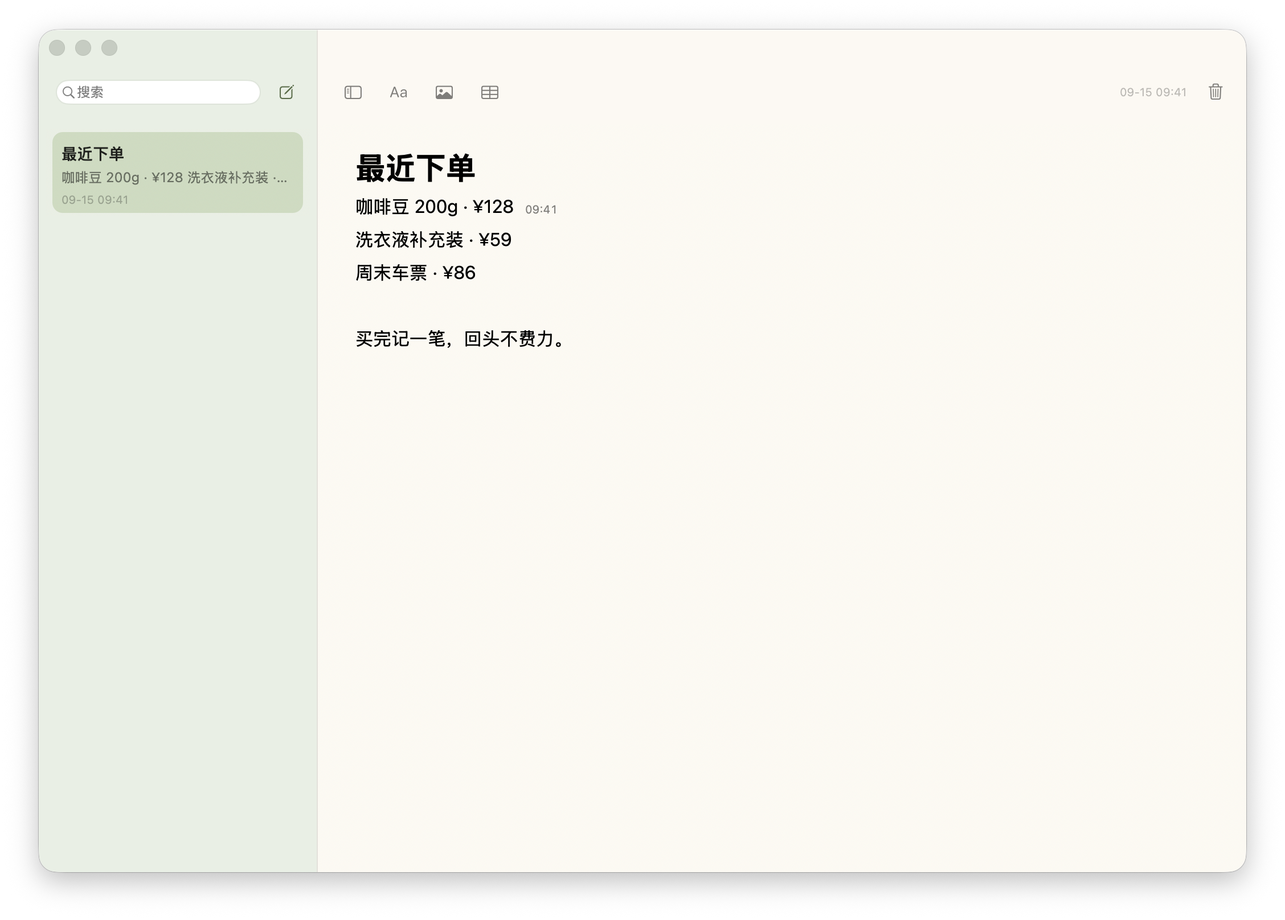
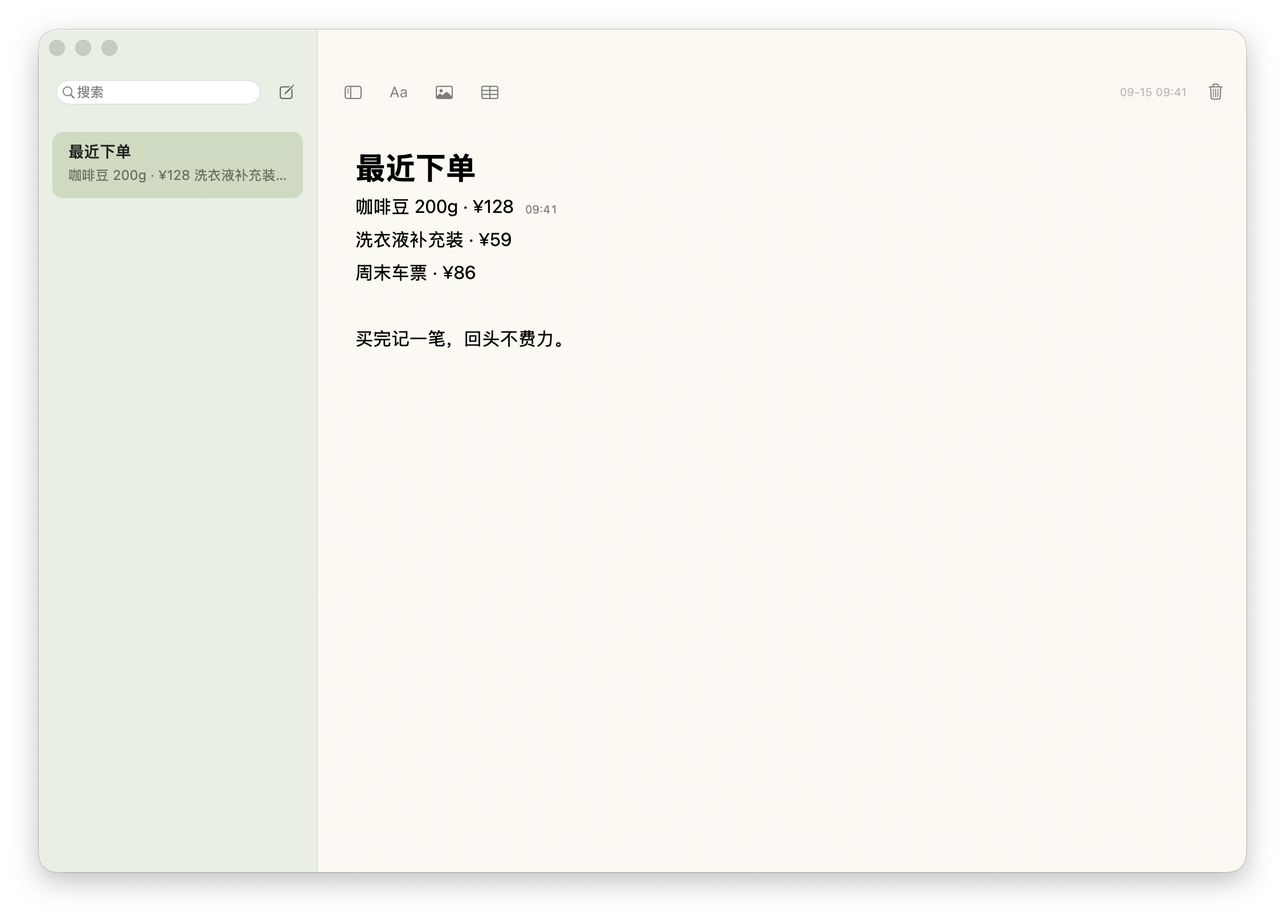
Simplify memo sidebar to title and preview

Changed region(s): [[0.031, 0.1547, 0.2482, 0.2475]]

diff --git a/docs/en.html b/docs/en.html
@@ -1,12 +1,12 @@
 <!doctype html>
-<html lang="en"><head><meta charset="utf-8"><meta name="viewport" content="width=device-width,initial-scale=1"><title>SwiftNote — A thought, a note.</title><meta name="description" content="A small native macOS memo app. Write directly, format with Markdown shortcuts, and see edit times only when needed."><meta name="theme-color" content="#f6f4ed"><meta property="og:title" content="SwiftNote — A thought, a note."><meta property="og:description" content="A small native macOS memo app. Write directly, format with Markdown shortcuts, and see edit times only when needed."><meta property="og:image" content="https://flaricy.github.io/SwiftNote/assets/orders-en.png?v=1.0.2"><meta property="og:type" content="website"><link rel="icon" href="assets/app-icon.png"><link rel="stylesheet" href="style.css?v=paper-only-2"><script src="app.js?v=paper-only-2" defer></script><link rel="canonical" href="https://flaricy.github.io/SwiftNote/en.html"><link rel="alternate" hreflang="zh-CN" href="https://flaricy.github.io/SwiftNote/"><link rel="alternate" hreflang="en" href="https://flaricy.github.io/SwiftNote/en.html"><meta property="og:url" content="https://flaricy.github.io/SwiftNote/en.html"><meta property="og:locale" content="en_US"><meta name="twitter:card" content="summary_large_image"></head>
+<html lang="en"><head><meta charset="utf-8"><meta name="viewport" content="width=device-width,initial-scale=1"><title>SwiftNote — A thought, a note.</title><meta name="description" content="A small native macOS memo app. Write directly, format with Markdown shortcuts, and see edit times only when needed."><meta name="theme-color" content="#f6f4ed"><meta property="og:title" content="SwiftNote — A thought, a note."><meta property="og:description" content="A small native macOS memo app. Write directly, format with Markdown shortcuts, and see edit times only when needed."><meta property="og:image" content="https://flaricy.github.io/SwiftNote/assets/orders-en.png?v=1.0.3"><meta property="og:type" content="website"><link rel="icon" href="assets/app-icon.png"><link rel="stylesheet" href="style.css?v=quiet-list-3"><script src="app.js?v=quiet-list-3" defer></script><link rel="canonical" href="https://flaricy.github.io/SwiftNote/en.html"><link rel="alternate" hreflang="zh-CN" href="https://flaricy.github.io/SwiftNote/"><link rel="alternate" hreflang="en" href="https://flaricy.github.io/SwiftNote/en.html"><meta property="og:url" content="https://flaricy.github.io/SwiftNote/en.html"><meta property="og:locale" content="en_US"><meta name="twitter:card" content="summary_large_image"></head>
 <body><a class="skip" href="#main">Skip to content</a>
 <header class="wrap header"><a class="brand" href="en.html"><img src="assets/app-icon.png" width="38" height="38" alt=""><span>SwiftNote <b>随记</b></span></a><nav aria-label="Main navigation"><a href="#experience">Experience</a><a href="https://github.com/flaricy/SwiftNote">GitHub ↗</a><a href="index.html" lang="zh-CN" hreflang="zh-CN" data-language-link>中文</a></nav></header>
-<main id="main"><section class="wrap hero"><div class="hero-copy"><p class="eyebrow"><span></span>Made for macOS · MIT open source</p><h1>A thought,<br><em>a note.</em></h1><p class="intro">A passing thought, or a purchase you just made.<br>Write a line. Find its time when you need it.</p><a class="button" href="https://github.com/flaricy/SwiftNote/releases/download/v1.0.2/SwiftNote-1.0.2-macOS-arm64.zip"><span aria-hidden="true">↓</span> Download for macOS <span aria-hidden="true">↗</span></a><p class="meta">v1.0.2 · Apple Silicon · macOS 14+</p><a class="quiet" href="#install">First-time installation ↗</a></div><div class="hero-art"><span class="margin-note">A LITTLE SPACE<br>FOR YOUR THOUGHTS.</span><div class="paper-edge"></div><img class="hero-shot" src="assets/orders-en.png?v=1.0.2" width="2256" height="1616" alt="SwiftNote editor showing a purchase with its inline edit timestamp"><div class="art-caption"><span>01 / SWIFTNOTE</span><span>Actual app · Fictional notes</span></div></div></section>
+<main id="main"><section class="wrap hero"><div class="hero-copy"><p class="eyebrow"><span></span>Made for macOS · MIT open source</p><h1>A thought,<br><em>a note.</em></h1><p class="intro">A passing thought, or a purchase you just made.<br>Write a line. Find its time when you need it.</p><a class="button" href="https://github.com/flaricy/SwiftNote/releases/download/v1.0.3/SwiftNote-1.0.3-macOS-arm64.zip"><span aria-hidden="true">↓</span> Download for macOS <span aria-hidden="true">↗</span></a><p class="meta">v1.0.3 · Apple Silicon · macOS 14+</p><a class="quiet" href="#install">First-time installation ↗</a></div><div class="hero-art"><span class="margin-note">A LITTLE SPACE<br>FOR YOUR THOUGHTS.</span><div class="paper-edge"></div><img class="hero-shot" src="assets/orders-en.png?v=1.0.3" width="2256" height="1616" alt="SwiftNote editor showing a purchase with its inline edit timestamp"><div class="art-caption"><span>01 / SWIFTNOTE</span><span>Actual app · Fictional notes</span></div></div></section>
 <section class="wrap order-section" id="order-time" aria-labelledby="order-heading"><div class="order-copy"><p class="eyebrow">A NOTE. A PURCHASE. A MOMENT.</p><h2 id="order-heading">Remember when you wrote it down.</h2><p>Jot down a purchase as you place the order. Later, click the line to check its latest edit time—one less detail to remember.</p><p class="order-how">Click a line → see its time</p><p class="order-caveat">Times reflect the latest edit, not a permanent order record. Editing a line updates its time.</p></div><div class="order-demo"><div class="order-demo-top"><span>Fictional purchases</span></div><div class="order-lines"><div class="order-row is-selected" data-order-row="0"><button type="button" class="order-select" aria-pressed="true"><span class="order-label">Coffee beans, 200g · $18</span></button><button type="button" class="order-time" aria-label="Last edited: 2026-09-14 09:41:26" aria-expanded="false" aria-describedby="order-tip-0" >09:41</button><span class="order-tooltip" id="order-tip-0" role="tooltip">Last edited<strong>2026-09-14 09:41:26</strong></span></div><div class="order-row" data-order-row="1"><button type="button" class="order-select" aria-pressed="false"><span class="order-label">Keyboard · silent switches / office delivery · $59</span></button><button type="button" class="order-time is-clock" aria-label="Last edited: 2026-09-14 12:18:03" aria-expanded="false" aria-describedby="order-tip-1" tabindex="-1"><svg viewBox="0 0 20 20" aria-hidden="true"><circle cx="10" cy="10" r="7"/><path d="M10 5.5V10l3 1.8"/></svg></button><span class="order-tooltip" id="order-tip-1" role="tooltip">Last edited<strong>2026-09-14 12:18:03</strong></span></div><div class="order-row" data-order-row="2"><button type="button" class="order-select" aria-pressed="false"><span class="order-label">Train ticket · $24</span></button><button type="button" class="order-time" aria-label="Last edited: 2026-09-14 18:06:12" aria-expanded="false" aria-describedby="order-tip-2" tabindex="-1">18:06</button><span class="order-tooltip" id="order-tip-2" role="tooltip">Last edited<strong>2026-09-14 18:06:12</strong></span></div></div><p class="order-hint">Select a line. Hover or tap its time to see the full date.</p><p class="order-caption">Interactive illustration, not the running app.</p></div></section>
 <section class="wrap statement" id="experience"><p class="eyebrow">LESS BETWEEN YOU AND YOUR WORDS</p><h2>Just enough room for a thought.</h2><p>No workspace to choose. No mandatory title.<br>Return to your last note, or start one from the menu bar.</p></section>
-<section class="wrap showcase"><div class="scene-tabs" role="tablist" aria-label="App views"><button type="button" class="scene-tab" role="tab" id="tab-0" aria-controls="scene" aria-selected="true" data-scene="0">Purchase time</button><button type="button" class="scene-tab" role="tab" id="tab-1" aria-controls="scene" aria-selected="false" data-scene="1">Just write</button><button type="button" class="scene-tab" role="tab" id="tab-2" aria-controls="scene" aria-selected="false" data-scene="2">Format in place</button></div><div id="scene" role="tabpanel" aria-labelledby="tab-0"><img data-scene-image="0" src="assets/orders-en.png?v=1.0.2" width="2256" height="1616" alt="A purchase note with the latest edit time beside the coffee order"><img data-scene-image="1" src="assets/editor-en.png?v=1.0.2" width="2256" height="1616" alt="A weekend note with headings and a short checklist" hidden><img data-scene-image="2" src="assets/selection-en.png?v=1.0.2" width="2256" height="1616" alt="Selected text with the compact formatting toolbar alongside it" hidden></div><p class="caption">Actual app · Fictional notes</p></section>
+<section class="wrap showcase"><div class="scene-tabs" role="tablist" aria-label="App views"><button type="button" class="scene-tab" role="tab" id="tab-0" aria-controls="scene" aria-selected="true" data-scene="0">Purchase time</button><button type="button" class="scene-tab" role="tab" id="tab-1" aria-controls="scene" aria-selected="false" data-scene="1">Just write</button><button type="button" class="scene-tab" role="tab" id="tab-2" aria-controls="scene" aria-selected="false" data-scene="2">Format in place</button></div><div id="scene" role="tabpanel" aria-labelledby="tab-0"><img data-scene-image="0" src="assets/orders-en.png?v=1.0.3" width="2256" height="1616" alt="A purchase note with the latest edit time beside the coffee order"><img data-scene-image="1" src="assets/editor-en.png?v=1.0.3" width="2256" height="1616" alt="A weekend note with headings and a short checklist" hidden><img data-scene-image="2" src="assets/selection-en.png?v=1.0.3" width="2256" height="1616" alt="Selected text with the compact formatting toolbar alongside it" hidden></div><p class="caption">Actual app · Fictional notes</p></section>
 <section class="wrap features"><article><span class="index">01 — WRITE</span><h3>Stay with your thought.</h3><p>Use familiar Markdown shortcuts and four heading levels. Type / to insert lists, checklists, images, and tables.</p><div class="sample" aria-hidden="true"><span class="muted">## </span>A little weekend plan<span class="sample-arrow">↵</span></div></article><article><span class="index">02 — SHAPE</span><h3>Tools beside your words.</h3><p>Select text and format nearby. Drop in an image and scale it proportionally. Edit tables directly and check things off.</p><div class="format-sample" aria-hidden="true"><b>B</b><i>I</i><u>U</u><s>S</s><span> Aa</span></div></article><article><span class="index">03 — REMEMBER</span><h3>Time, when you need it.</h3><p>Click a line to see its latest edit time. A small clock takes over when the line is full. Hover for the complete date.</p><div class="time-sample" aria-hidden="true">Coffee beans · $18<span>09:41</span></div></article></section>
 <section class="wrap quick"><div><p class="eyebrow">ALWAYS WITHIN REACH</p><h2>A new thought, within reach.</h2><p>Click the menu bar button, or press <kbd>⌃</kbd><kbd>⌥</kbd><kbd>N</kbd> from another app to create a note.</p><small>Available while SwiftNote is running</small></div><div class="quick-icon" aria-hidden="true"><img src="assets/app-icon.png" width="150" height="150" alt=""></div></section>
-<section class="wrap download" id="install"><p class="eyebrow">Free · MIT</p><h2>A place for passing thoughts.</h2><p>No account. No subscription. Just a small native memo app.</p><a class="button" href="https://github.com/flaricy/SwiftNote/releases/download/v1.0.2/SwiftNote-1.0.2-macOS-arm64.zip">↓ Download for macOS</a><p class="meta">v1.0.2 · Apple Silicon · macOS 14+</p><p class="install-note">The app’s menus are currently in Chinese; English notes are supported. This release is not Apple-notarized. If macOS blocks the first launch, follow the installation guide. <a href="https://github.com/flaricy/SwiftNote/blob/main/docs/GUIDE.en.md">Installation & guide ↗</a></p></section></main>
+<section class="wrap download" id="install"><p class="eyebrow">Free · MIT</p><h2>A place for passing thoughts.</h2><p>No account. No subscription. Just a small native memo app.</p><a class="button" href="https://github.com/flaricy/SwiftNote/releases/download/v1.0.3/SwiftNote-1.0.3-macOS-arm64.zip">↓ Download for macOS</a><p class="meta">v1.0.3 · Apple Silicon · macOS 14+</p><p class="install-note">The app’s menus are currently in Chinese; English notes are supported. This release is not Apple-notarized. If macOS blocks the first launch, follow the installation guide. <a href="https://github.com/flaricy/SwiftNote/blob/main/docs/GUIDE.en.md">Installation & guide ↗</a></p></section></main>
 <footer class="wrap footer"><a class="brand" href="en.html"><img src="assets/app-icon.png" width="28" height="28" alt="">SwiftNote · 随记</a><span>Made by flaricy · 2026</span><div><a href="https://github.com/flaricy/SwiftNote">View source</a><a href="https://github.com/flaricy/Framing">Framing ↗</a></div></footer></body></html>

diff --git a/docs/index.html b/docs/index.html
@@ -1,12 +1,12 @@
 <!doctype html>
-<html lang="zh-CN"><head><meta charset="utf-8"><meta name="viewport" content="width=device-width,initial-scale=1"><title>SwiftNote · 随记 — 念头一闪，随手记下。</title><meta name="description" content="原生 macOS 备忘录。打开直接写，Markdown 随手排版，修改时间按需出现。"><meta name="theme-color" content="#f6f4ed"><meta property="og:title" content="SwiftNote · 随记 — 念头一闪，随手记下。"><meta property="og:description" content="原生 macOS 备忘录。打开直接写，Markdown 随手排版，修改时间按需出现。"><meta property="og:image" content="https://flaricy.github.io/SwiftNote/assets/orders.png?v=1.0.2"><meta property="og:type" content="website"><link rel="icon" href="assets/app-icon.png"><link rel="stylesheet" href="style.css?v=paper-only-2"><script src="app.js?v=paper-only-2" defer></script><link rel="canonical" href="https://flaricy.github.io/SwiftNote/"><link rel="alternate" hreflang="zh-CN" href="https://flaricy.github.io/SwiftNote/"><link rel="alternate" hreflang="en" href="https://flaricy.github.io/SwiftNote/en.html"><meta property="og:url" content="https://flaricy.github.io/SwiftNote/"><meta property="og:locale" content="zh_CN"><meta name="twitter:card" content="summary_large_image"></head>
+<html lang="zh-CN"><head><meta charset="utf-8"><meta name="viewport" content="width=device-width,initial-scale=1"><title>SwiftNote · 随记 — 念头一闪，随手记下。</title><meta name="description" content="原生 macOS 备忘录。打开直接写，Markdown 随手排版，修改时间按需出现。"><meta name="theme-color" content="#f6f4ed"><meta property="og:title" content="SwiftNote · 随记 — 念头一闪，随手记下。"><meta property="og:description" content="原生 macOS 备忘录。打开直接写，Markdown 随手排版，修改时间按需出现。"><meta property="og:image" content="https://flaricy.github.io/SwiftNote/assets/orders.png?v=1.0.3"><meta property="og:type" content="website"><link rel="icon" href="assets/app-icon.png"><link rel="stylesheet" href="style.css?v=quiet-list-3"><script src="app.js?v=quiet-list-3" defer></script><link rel="canonical" href="https://flaricy.github.io/SwiftNote/"><link rel="alternate" hreflang="zh-CN" href="https://flaricy.github.io/SwiftNote/"><link rel="alternate" hreflang="en" href="https://flaricy.github.io/SwiftNote/en.html"><meta property="og:url" content="https://flaricy.github.io/SwiftNote/"><meta property="og:locale" content="zh_CN"><meta name="twitter:card" content="summary_large_image"></head>
 <body><a class="skip" href="#main">跳到正文</a>
 <header class="wrap header"><a class="brand" href="./"><img src="assets/app-icon.png" width="38" height="38" alt=""><span>SwiftNote <b>随记</b></span></a><nav aria-label="主导航"><a href="#experience">体验</a><a href="https://github.com/flaricy/SwiftNote">GitHub ↗</a><a href="en.html" lang="en" hreflang="en" data-language-link>EN</a></nav></header>
-<main id="main"><section class="wrap hero"><div class="hero-copy"><p class="eyebrow"><span></span>为 macOS 而写 · MIT 开源</p><h1>念头一闪，<br><em>随手记下。</em></h1><p class="intro">一闪而过的念头，刚刚下单的东西。<br>随手记一行，需要时也能回看时间。</p><a class="button" href="https://github.com/flaricy/SwiftNote/releases/download/v1.0.2/SwiftNote-1.0.2-macOS-arm64.zip"><span aria-hidden="true">↓</span> 下载 macOS 版 <span aria-hidden="true">↗</span></a><p class="meta">v1.0.2 · Apple Silicon · macOS 14+</p><a class="quiet" href="#install">首次安装须知 ↗</a></div><div class="hero-art"><span class="margin-note">A LITTLE SPACE<br>FOR YOUR THOUGHTS.</span><div class="paper-edge"></div><img class="hero-shot" src="assets/orders.png?v=1.0.2" width="2256" height="1616" alt="随记实际界面：咖啡豆账单行末尾显示修改时间"><div class="art-caption"><span>01 / SWIFTNOTE</span><span>实际应用界面 · 示例内容</span></div></div></section>
+<main id="main"><section class="wrap hero"><div class="hero-copy"><p class="eyebrow"><span></span>为 macOS 而写 · MIT 开源</p><h1>念头一闪，<br><em>随手记下。</em></h1><p class="intro">一闪而过的念头，刚刚下单的东西。<br>随手记一行，需要时也能回看时间。</p><a class="button" href="https://github.com/flaricy/SwiftNote/releases/download/v1.0.3/SwiftNote-1.0.3-macOS-arm64.zip"><span aria-hidden="true">↓</span> 下载 macOS 版 <span aria-hidden="true">↗</span></a><p class="meta">v1.0.3 · Apple Silicon · macOS 14+</p><a class="quiet" href="#install">首次安装须知 ↗</a></div><div class="hero-art"><span class="margin-note">A LITTLE SPACE<br>FOR YOUR THOUGHTS.</span><div class="paper-edge"></div><img class="hero-shot" src="assets/orders.png?v=1.0.3" width="2256" height="1616" alt="随记实际界面：咖啡豆账单行末尾显示修改时间"><div class="art-caption"><span>01 / SWIFTNOTE</span><span>实际应用界面 · 示例内容</span></div></div></section>
 <section class="wrap order-section" id="order-time" aria-labelledby="order-heading"><div class="order-copy"><p class="eyebrow">A NOTE. A PURCHASE. A MOMENT.</p><h2 id="order-heading">记一笔账，也留个时间线索。</h2><p>买了什么，花了多少，随手记下一行。点一下这行，就能看到最近修改的时间。下单当时记一笔，回看时就多一个时间线索。</p><p class="order-how">点选这一行 → 看时间</p><p class="order-caveat">显示的是最近修改时间。再次编辑会更新时间，不会永久保留原始下单时间。</p></div><div class="order-demo"><div class="order-demo-top"><span>示例账单</span></div><div class="order-lines"><div class="order-row is-selected" data-order-row="0"><button type="button" class="order-select" aria-pressed="true"><span class="order-label">咖啡豆 200g · ¥128</span></button><button type="button" class="order-time" aria-label="最近修改: 2026-09-14 09:41:26" aria-expanded="false" aria-describedby="order-tip-0" >09:41</button><span class="order-tooltip" id="order-tip-0" role="tooltip">最近修改<strong>2026-09-14 09:41:26</strong></span></div><div class="order-row" data-order-row="1"><button type="button" class="order-select" aria-pressed="false"><span class="order-label">机械键盘 · 静音轴 / 配送到公司 · ¥399</span></button><button type="button" class="order-time is-clock" aria-label="最近修改: 2026-09-14 12:18:03" aria-expanded="false" aria-describedby="order-tip-1" tabindex="-1"><svg viewBox="0 0 20 20" aria-hidden="true"><circle cx="10" cy="10" r="7"/><path d="M10 5.5V10l3 1.8"/></svg></button><span class="order-tooltip" id="order-tip-1" role="tooltip">最近修改<strong>2026-09-14 12:18:03</strong></span></div><div class="order-row" data-order-row="2"><button type="button" class="order-select" aria-pressed="false"><span class="order-label">周末车票 · ¥86</span></button><button type="button" class="order-time" aria-label="最近修改: 2026-09-14 18:06:12" aria-expanded="false" aria-describedby="order-tip-2" tabindex="-1">18:06</button><span class="order-tooltip" id="order-tip-2" role="tooltip">最近修改<strong>2026-09-14 18:06:12</strong></span></div></div><p class="order-hint">点选一行，再悬停或点一下时间，查看完整日期。</p><p class="order-caption">交互示意，并非运行中的应用。</p></div></section>
 <section class="wrap statement" id="experience"><p class="eyebrow">LESS BETWEEN YOU AND YOUR WORDS</p><h2>一条备忘录，该有的刚刚好。</h2><p>不必先选工作区，也不用给每个念头起标题。<br>回到上次写的地方，或者从菜单栏另起一条。</p></section>
-<section class="wrap showcase"><div class="scene-tabs" role="tablist" aria-label="应用界面"><button type="button" class="scene-tab" role="tab" id="tab-0" aria-controls="scene" aria-selected="true" data-scene="0">账单与时间</button><button type="button" class="scene-tab" role="tab" id="tab-1" aria-controls="scene" aria-selected="false" data-scene="1">自在书写</button><button type="button" class="scene-tab" role="tab" id="tab-2" aria-controls="scene" aria-selected="false" data-scene="2">就近排版</button></div><div id="scene" role="tabpanel" aria-labelledby="tab-0"><img data-scene-image="0" src="assets/orders.png?v=1.0.2" width="2256" height="1616" alt="账单与时间"><img data-scene-image="1" src="assets/editor.png?v=1.0.2" width="2256" height="1616" alt="自在书写" hidden><img data-scene-image="2" src="assets/selection.png?v=1.0.2" width="2256" height="1616" alt="就近排版" hidden></div><p class="caption">实际应用界面 · 示例内容</p></section>
+<section class="wrap showcase"><div class="scene-tabs" role="tablist" aria-label="应用界面"><button type="button" class="scene-tab" role="tab" id="tab-0" aria-controls="scene" aria-selected="true" data-scene="0">账单与时间</button><button type="button" class="scene-tab" role="tab" id="tab-1" aria-controls="scene" aria-selected="false" data-scene="1">自在书写</button><button type="button" class="scene-tab" role="tab" id="tab-2" aria-controls="scene" aria-selected="false" data-scene="2">就近排版</button></div><div id="scene" role="tabpanel" aria-labelledby="tab-0"><img data-scene-image="0" src="assets/orders.png?v=1.0.3" width="2256" height="1616" alt="账单与时间"><img data-scene-image="1" src="assets/editor.png?v=1.0.3" width="2256" height="1616" alt="自在书写" hidden><img data-scene-image="2" src="assets/selection.png?v=1.0.3" width="2256" height="1616" alt="就近排版" hidden></div><p class="caption">实际应用界面 · 示例内容</p></section>
 <section class="wrap features"><article><span class="index">01 — WRITE</span><h3>写下去，不打断。</h3><p>用熟悉的 Markdown 快捷输入，四级标题随手切换。一个 /，就能插入列表、待办、图片和表格。</p><div class="sample" aria-hidden="true"><span class="muted">## </span>周末的小计划<span class="sample-arrow">↵</span></div></article><article><span class="index">02 — SHAPE</span><h3>工具靠近文字。</h3><p>选中文字，就近完成排版。图片拖进来，按比例调整大小；表格直接填，待办点一下完成。</p><div class="format-sample" aria-hidden="true"><b>B</b><i>I</i><u>U</u><s>S</s><span> Aa</span></div></article><article><span class="index">03 — REMEMBER</span><h3>时间，需要时再看。</h3><p>点击一行，修改时间轻轻出现在文字后面。行尾满了，就用小钟代替，悬停即刻查看。</p><div class="time-sample" aria-hidden="true">咖啡豆 · ¥128<span>09:41</span></div></article></section>
 <section class="wrap quick"><div><p class="eyebrow">ALWAYS WITHIN REACH</p><h2>手边，一个新念头。</h2><p>菜单栏点一下，或在其他应用中按 <kbd>⌃</kbd><kbd>⌥</kbd><kbd>N</kbd>，立即新建。</p><small>随记运行时可用</small></div><div class="quick-icon" aria-hidden="true"><img src="assets/app-icon.png" width="150" height="150" alt=""></div></section>
-<section class="wrap download" id="install"><p class="eyebrow">免费 · MIT</p><h2>给念头留个位置。</h2><p>没有账户，没有订阅。一个小小的原生备忘录。</p><a class="button" href="https://github.com/flaricy/SwiftNote/releases/download/v1.0.2/SwiftNote-1.0.2-macOS-arm64.zip">↓ 下载 macOS 版</a><p class="meta">v1.0.2 · Apple Silicon · macOS 14+</p><p class="install-note">当前版本尚未经过 Apple 公证。首次打开若被 macOS 阻止，请按照安装指南操作。 <a href="https://github.com/flaricy/SwiftNote/blob/main/docs/GUIDE.md">安装与使用 ↗</a></p></section></main>
+<section class="wrap download" id="install"><p class="eyebrow">免费 · MIT</p><h2>给念头留个位置。</h2><p>没有账户，没有订阅。一个小小的原生备忘录。</p><a class="button" href="https://github.com/flaricy/SwiftNote/releases/download/v1.0.3/SwiftNote-1.0.3-macOS-arm64.zip">↓ 下载 macOS 版</a><p class="meta">v1.0.3 · Apple Silicon · macOS 14+</p><p class="install-note">当前版本尚未经过 Apple 公证。首次打开若被 macOS 阻止，请按照安装指南操作。 <a href="https://github.com/flaricy/SwiftNote/blob/main/docs/GUIDE.md">安装与使用 ↗</a></p></section></main>
 <footer class="wrap footer"><a class="brand" href="./"><img src="assets/app-icon.png" width="28" height="28" alt="">SwiftNote · 随记</a><span>由 flaricy 制作 · 2026</span><div><a href="https://github.com/flaricy/SwiftNote">查看源码</a><a href="https://github.com/flaricy/Framing">Framing ↗</a></div></footer></body></html>

diff --git a/Source/App.swift b/Source/App.swift
@@ -18,16 +18,14 @@ final class MemoRow: NSTableRowView {
 final class MemoCell: NSTableCellView {
     let title = NSTextField(labelWithString: "")
     let preview = NSTextField(labelWithString: "")
-    let time = NSTextField(labelWithString: "")
     override init(frame frameRect: NSRect) {
         super.init(frame: frameRect)
         title.font = .systemFont(ofSize: 14, weight: .semibold); title.lineBreakMode = .byTruncatingTail
         preview.font = .systemFont(ofSize: 12); preview.textColor = .secondaryLabelColor; preview.lineBreakMode = .byTruncatingTail
-        time.font = .systemFont(ofSize: 10); time.textColor = .tertiaryLabelColor
-        for v in [title, preview, time] { addSubview(v) }
+        for v in [title, preview] { addSubview(v) }
     }
     required init?(coder: NSCoder) { fatalError() }
-    override func layout() { super.layout(); title.frame = NSRect(x: 12, y: 43, width: bounds.width-24, height: 20); preview.frame = NSRect(x: 12, y: 23, width: bounds.width-24, height: 18); time.frame = NSRect(x: 12, y: 6, width: bounds.width-24, height: 14) }
+    override func layout() { super.layout(); title.frame = NSRect(x: 18, y: 32, width: bounds.width-36, height: 20); preview.frame = NSRect(x: 18, y: 12, width: bounds.width-36, height: 18) }
 }
 final class AppController: NSObject, NSApplicationDelegate, NSWindowDelegate, NSTableViewDataSource, NSTableViewDelegate, NSSearchFieldDelegate {
     var store: NoteStore!
@@ -121,7 +119,7 @@ final class AppController: NSObject, NSApplicationDelegate, NSWindowDelegate, NS
         head.translatesAutoresizingMaskIntoConstraints = false; side.addSubview(head)
         search.placeholderString = "搜索"; search.delegate = self; search.font = .systemFont(ofSize: 12); search.controlSize = .small; search.translatesAutoresizingMaskIntoConstraints = false; search.setAccessibilityLabel("搜索备忘录")
         let list = NSScrollView(); list.hasVerticalScroller = true; list.drawsBackground = true; list.backgroundColor = MemoTheme.sidebar; list.contentView.drawsBackground = true; list.contentView.backgroundColor = MemoTheme.sidebar; list.translatesAutoresizingMaskIntoConstraints = false; side.addSubview(list)
-        table.headerView = nil; table.backgroundColor = MemoTheme.sidebar; table.rowHeight = 75; table.intercellSpacing = NSSize(width: 0, height: 2); table.selectionHighlightStyle = .regular
+        table.headerView = nil; table.backgroundColor = MemoTheme.sidebar; table.rowHeight = 62; table.intercellSpacing = NSSize(width: 0, height: 2); table.selectionHighlightStyle = .regular
         table.style = .plain; table.delegate = self; table.dataSource = self
         let column = NSTableColumn(identifier: NSUserInterfaceItemIdentifier("note")); column.resizingMask = .autoresizingMask; table.addTableColumn(column)
         list.documentView = table
@@ -211,7 +209,7 @@ final class AppController: NSObject, NSApplicationDelegate, NSWindowDelegate, NS
     func tableView(_ tableView: NSTableView, viewFor tableColumn: NSTableColumn?, row: Int) -> NSView? {
         guard filtered.indices.contains(row) else { return nil }
         let cell = MemoCell(); let note = filtered[row]
-        cell.title.stringValue = note.title; cell.preview.stringValue = note.preview.isEmpty ? "空白备忘录" : note.preview; cell.time.stringValue = dates.string(from: note.modified)
+        cell.title.stringValue = note.title; cell.preview.stringValue = note.preview.isEmpty ? "空白备忘录" : note.preview
         return cell
     }
     func tableViewSelectionDidChange(_ notification: Notification) {

diff --git a/README.md b/README.md
@@ -3,7 +3,7 @@
 <p align="center"><img src="docs/assets/app-icon.png" width="76" alt="随记图标"></p>
 <h1 align="center">SwiftNote · 随记</h1>
 <p align="center">念头一闪，随手记下。<br><sub>A thought, a note. Nothing in the way.</sub></p>
-<p align="center"><a href="https://github.com/flaricy/SwiftNote/releases/download/v1.0.2/SwiftNote-1.0.2-macOS-arm64.zip"><b>↓ 下载 macOS 版</b></a>　·　<a href="https://flaricy.github.io/SwiftNote/">网站 / Website ↗</a></p>
+<p align="center"><a href="https://github.com/flaricy/SwiftNote/releases/download/v1.0.3/SwiftNote-1.0.3-macOS-arm64.zip"><b>↓ 下载 macOS 版</b></a>　·　<a href="https://flaricy.github.io/SwiftNote/">网站 / Website ↗</a></p>
 <p align="center"><sub>Apple Silicon · macOS 14+ · 免费开源 · MIT</sub></p>
 
 [![随记实际界面：账单行末尾按需显示修改时间](docs/assets/orders.png)](https://flaricy.github.io/SwiftNote/)

diff --git a/README.en.md b/README.en.md
@@ -3,7 +3,7 @@
 <p align="center"><img src="docs/assets/app-icon.png" width="76" alt="SwiftNote icon"></p>
 <h1 align="center">SwiftNote</h1>
 <p align="center">A thought, a note. Nothing in the way.</p>
-<p align="center"><a href="https://github.com/flaricy/SwiftNote/releases/download/v1.0.2/SwiftNote-1.0.2-macOS-arm64.zip"><b>↓ Download for macOS</b></a> · <a href="https://flaricy.github.io/SwiftNote/en.html">Website ↗</a></p>
+<p align="center"><a href="https://github.com/flaricy/SwiftNote/releases/download/v1.0.3/SwiftNote-1.0.3-macOS-arm64.zip"><b>↓ Download for macOS</b></a> · <a href="https://flaricy.github.io/SwiftNote/en.html">Website ↗</a></p>
 <p align="center"><sub>Apple Silicon · macOS 14+ · Free & open source · MIT</sub></p>
 
 [![A purchase note with its latest edit time beside the text](docs/assets/orders-en.png)](https://flaricy.github.io/SwiftNote/en.html#order-time)

diff --git a/docs/GUIDE.en.md b/docs/GUIDE.en.md
@@ -4,7 +4,7 @@
 
 ## Installation
 
-1. Download `SwiftNote-1.0.2-macOS-arm64.zip` from [GitHub Releases](https://github.com/flaricy/SwiftNote/releases/tag/v1.0.2). Requires Apple Silicon and macOS 14 or later.
+1. Download `SwiftNote-1.0.3-macOS-arm64.zip` from [GitHub Releases](https://github.com/flaricy/SwiftNote/releases/tag/v1.0.3). Requires Apple Silicon and macOS 14 or later.
 2. Unzip it and drag **随记.app** into Applications. 随记 is SwiftNote’s name in Finder; the app’s menus are currently in Chinese.
 3. This release is ad-hoc signed and not Apple-notarized. If macOS blocks it, verify that you downloaded it from this repository and follow [Apple’s Open Anyway instructions](https://support.apple.com/102445) in System Settings → Privacy & Security. Do not disable Gatekeeper.
 

diff --git a/docs/GUIDE.md b/docs/GUIDE.md
@@ -4,7 +4,7 @@
 
 ## 安装
 
-1. 从 GitHub Releases 下载 `SwiftNote-1.0.2-macOS-arm64.zip`。下载包适用于 Apple Silicon Mac，最低系统为 macOS 14。
+1. 从 GitHub Releases 下载 `SwiftNote-1.0.3-macOS-arm64.zip`。下载包适用于 Apple Silicon Mac，最低系统为 macOS 14。
 2. 解压后把“随记.app”拖入“应用程序”。
 3. 当前版本尚未经过 Apple 公证。若系统阻止首次打开，在确认下载来源为本仓库后，前往“系统设置 → 隐私与安全性”，找到这次拦截记录并选择“仍要打开”。请不要关闭 Gatekeeper。参考 [Apple 官方说明](https://support.apple.com/102445)。
 

diff --git a/CHANGELOG.md b/CHANGELOG.md
@@ -1,5 +1,11 @@
 # Changelog
 
+## 1.0.3
+
+- Simplify the sidebar to title and preview, removing timestamps and tightening row spacing.
+- Keep on-demand paragraph timestamps in the editor.
+
+
 ## 1.0.2
 
 - Use the warm paper appearance regardless of the system theme.
